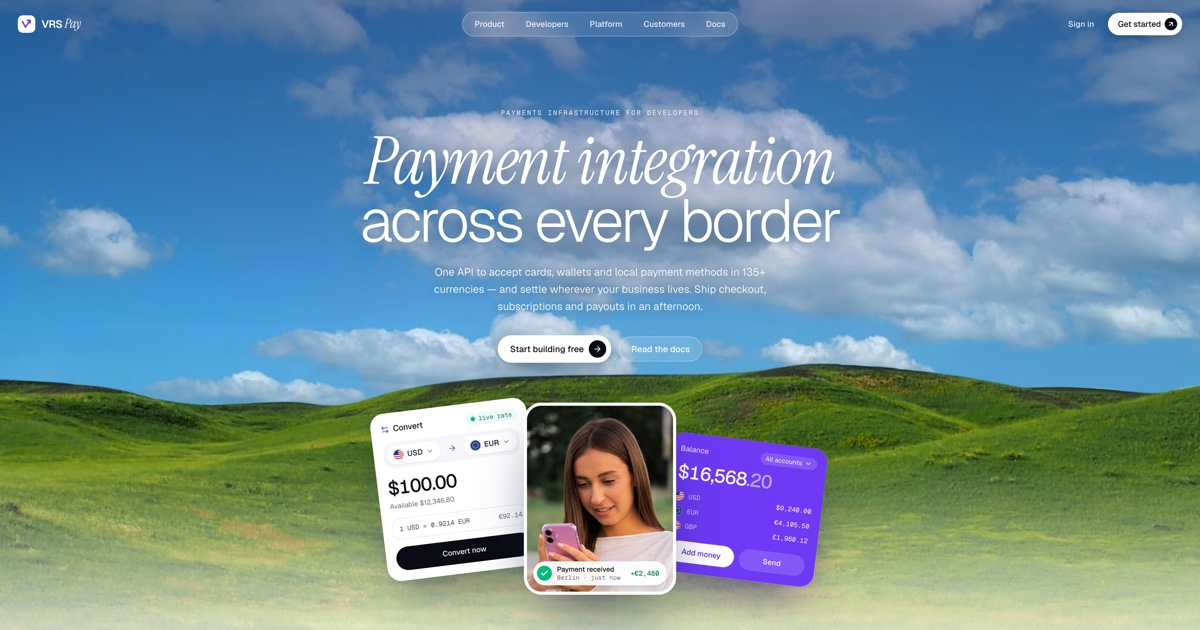
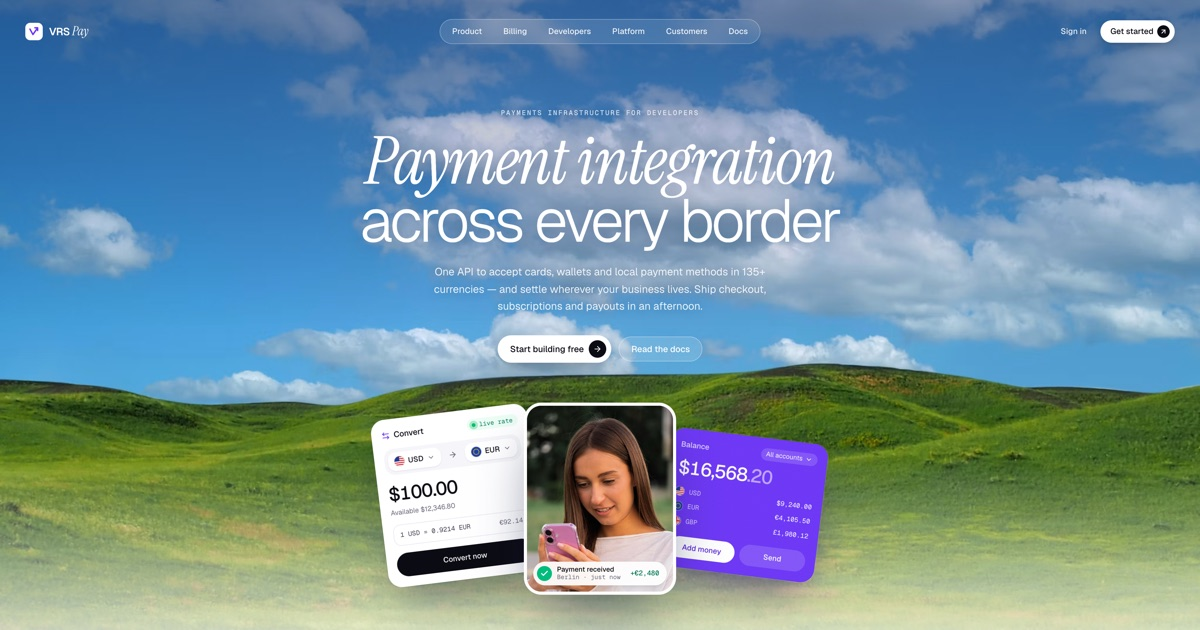
chore(site): refresh OG images and use the real Google and GitHub marks
VRS Pay: recapture the hero for og-image.jpg so it shows the current
navbar, and swap the sign-in buttons' single-colour Google path and
lucide GitHub outline for the official marks Multivrs uses.

Multivrs: recapture og from the current homepage hero. It ships as a
JPEG (87 KB) instead of a PNG (728 KB as a PNG), under WhatsApp's
~300 KB preview limit.

Both captured from production with headless Chrome at a 1922x1009
viewport, 2x, scaled to 1200x630.

diff --git a/apps/vrs-pay/src/components/auth/social-buttons.tsx b/apps/vrs-pay/src/components/auth/social-buttons.tsx
@@ -1,20 +1,46 @@
-import { Github } from "lucide-react";
 import type { ReactNode } from "react";
 import { Button } from "@/components/ui/button";
 
+/** Google's four-colour "G", the same mark the Multivrs sign-in uses. */
 function GoogleIcon() {
   return (
     <svg viewBox="0 0 24 24" aria-hidden="true" className="size-4">
       <path
+        fill="#4285F4"
+        d="M22.56 12.25c0-.78-.07-1.53-.2-2.25H12v4.26h5.92c-.26 1.37-1.04 2.53-2.21 3.31v2.77h3.57c2.08-1.92 3.28-4.74 3.28-8.09z"
+      />
+      <path
+        fill="#34A853"
+        d="M12 23c2.97 0 5.46-.98 7.28-2.66l-3.57-2.77c-.98.66-2.23 1.06-3.71 1.06-2.86 0-5.29-1.93-6.16-4.53H2.18v2.84C3.99 20.53 7.7 23 12 23z"
+      />
+      <path
+        fill="#FBBC05"
+        d="M5.84 14.09c-.22-.66-.35-1.36-.35-2.09s.13-1.43.35-2.09V7.07H2.18C1.43 8.55 1 10.22 1 12s.43 3.45 1.18 4.93l2.85-2.22.81-.62z"
+      />
+      <path
         fill="#EA4335"
-        d="M12 10.2v3.9h5.5c-.2 1.3-1.6 3.9-5.5 3.9-3.3 0-6-2.7-6-6.1s2.7-6.1 6-6.1c1.9 0 3.1.8 3.8 1.5l2.6-2.5C16.8 3.3 14.6 2.3 12 2.3 6.7 2.3 2.4 6.6 2.4 11.9s4.3 9.6 9.6 9.6c5.5 0 9.2-3.9 9.2-9.4 0-.6-.1-1.1-.2-1.6H12z"
+        d="M12 5.38c1.62 0 3.06.56 4.21 1.64l3.15-3.15C17.45 2.09 14.97 1 12 1 7.7 1 3.99 3.47 2.18 7.07l3.66 2.84c.87-2.6 3.3-4.53 6.16-4.53z"
       />
     </svg>
   );
 }
 
+/** The GitHub mark, in the text colour so it follows the theme. */
+function GitHubIcon() {
+  return (
+    <svg
+      viewBox="0 0 24 24"
+      fill="currentColor"
+      aria-hidden="true"
+      className="size-4"
+    >
+      <path d="M12 0c-6.626 0-12 5.373-12 12 0 5.302 3.438 9.8 8.207 11.387.599.111.793-.261.793-.577v-2.234c-3.338.726-4.033-1.416-4.033-1.416-.546-1.387-1.333-1.756-1.333-1.756-1.089-.745.083-.729.083-.729 1.205.084 1.839 1.237 1.839 1.237 1.07 1.834 2.807 1.304 3.492.997.107-.775.418-1.305.762-1.604-2.665-.305-5.467-1.334-5.467-5.931 0-1.311.469-2.381 1.236-3.221-.124-.303-.535-1.524.117-3.176 0 0 1.008-.322 3.301 1.23.957-.266 1.983-.399 3.003-.404 1.02.005 2.047.138 3.006.404 2.291-1.552 3.297-1.23 3.297-1.23.653 1.653.242 2.874.118 3.176.77.84 1.235 1.911 1.235 3.221 0 4.609-2.807 5.624-5.479 5.921.43.372.823 1.102.823 2.222v3.293c0 .319.192.694.801.576 4.765-1.589 8.199-6.086 8.199-11.386 0-6.627-5.373-12-12-12z" />
+    </svg>
+  );
+}
+
 const PROVIDERS: Record<string, { label: string; icon: () => ReactNode }> = {
-  github: { label: "GitHub", icon: () => <Github className="size-4" /> },
+  github: { label: "GitHub", icon: GitHubIcon },
   google: { label: "Google", icon: GoogleIcon },
 };
 

diff --git a/apps/web/src/app/layout.tsx b/apps/web/src/app/layout.tsx
@@ -13,7 +13,7 @@ const inter = Inter({
 
 const SITE_DESCRIPTION =
   "MULTIVRS is a modern software ecosystem: cloud deployment, developer tooling, AI workflows, and premium product experiences.";
-const SOCIAL_IMAGE_PATH = "/og.png";
+const SOCIAL_IMAGE_PATH = "/og.jpg";
 
 export const metadata: Metadata = {
   metadataBase: new URL(SITE_URL),
@@ -47,7 +47,7 @@ export const metadata: Metadata = {
         url: SOCIAL_IMAGE_PATH,
         width: 1200,
         height: 630,
-        type: "image/png",
+        type: "image/jpeg",
         alt: `${SITE_NAME} — Build Beyond Limits`,
       },
     ],
